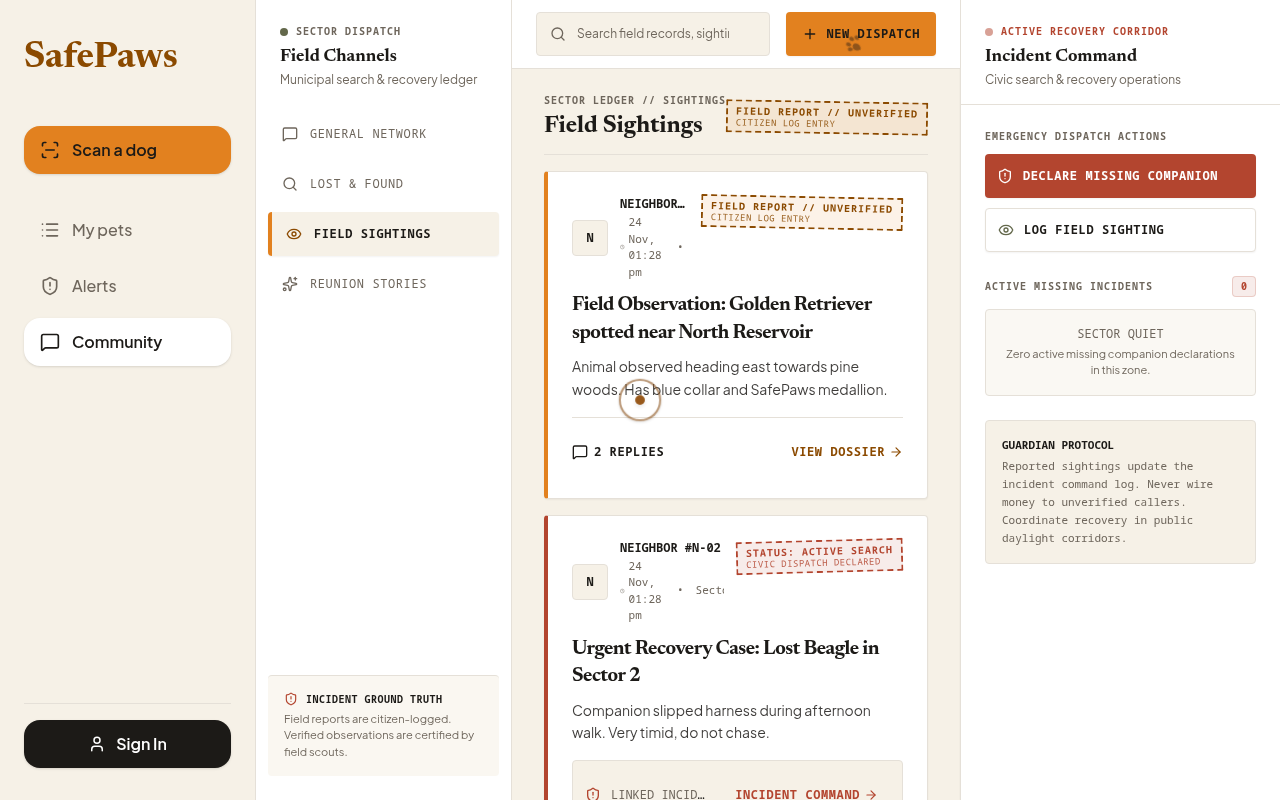
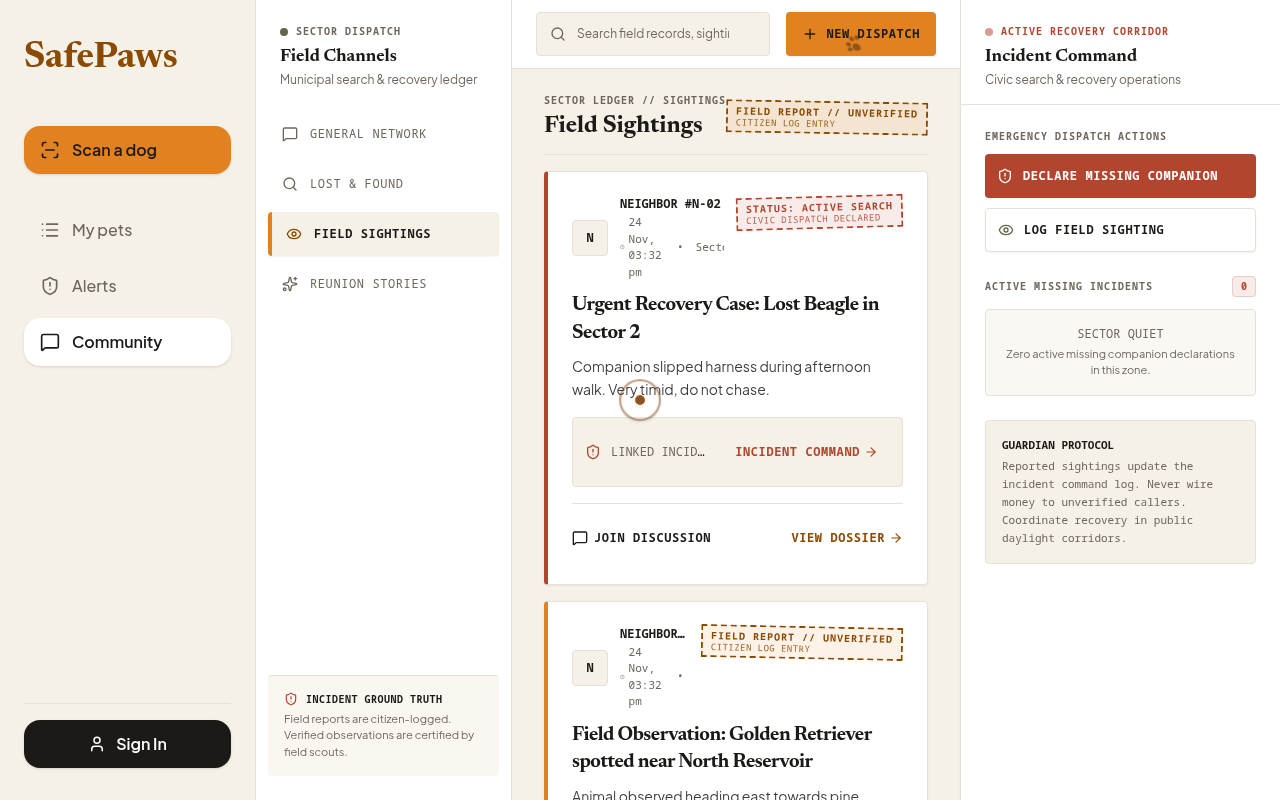
Refactor code structure for improved readability and maintainability

diff --git a/frontend/e2e/ux_06_5_phase_2a_community.spec.ts b/frontend/e2e/ux_06_5_phase_2a_community.spec.ts
@@ -55,8 +55,16 @@ test.describe('UX-06.5 Phase 2A Community Experience & Direction 1 Verification'
   });
 
   test.beforeEach(async ({ page }) => {
+    await page.route('**/api/auth/me', async (route) => {
+      await route.fulfill({
+        status: 401,
+        contentType: 'application/json',
+        body: JSON.stringify({ detail: 'Not authenticated' }),
+      });
+    });
+
     // Intercept community API calls with deterministic mock responses
-    await page.route('**/api/v1/community/posts*', async (route) => {
+    await page.route('**/api/v1/community/posts**', async (route) => {
       const url = route.request().url();
       if (url.includes('/replies')) {
         await route.fulfill({
@@ -139,6 +147,21 @@ test.describe('UX-06.5 Phase 2A Community Experience & Direction 1 Verification'
 
     test(`Verify /community/onboarding route at ${vp.name}`, async ({ page }) => {
       await page.setViewportSize({ width: vp.width, height: vp.height });
+      await page.route('**/api/auth/me', async (route) => {
+        await route.fulfill({
+          status: 200,
+          contentType: 'application/json',
+          body: JSON.stringify({
+            user: {
+              id: 'user-001',
+              name: 'Dr. Sarah',
+              email: 'sarah@safepaws.app',
+              profileCompleted: true,
+              neighborhood: 'Oakridge Sector',
+            },
+          }),
+        });
+      });
       await page.goto('/community/onboarding');
       await page.waitForLoadState('networkidle');
 
